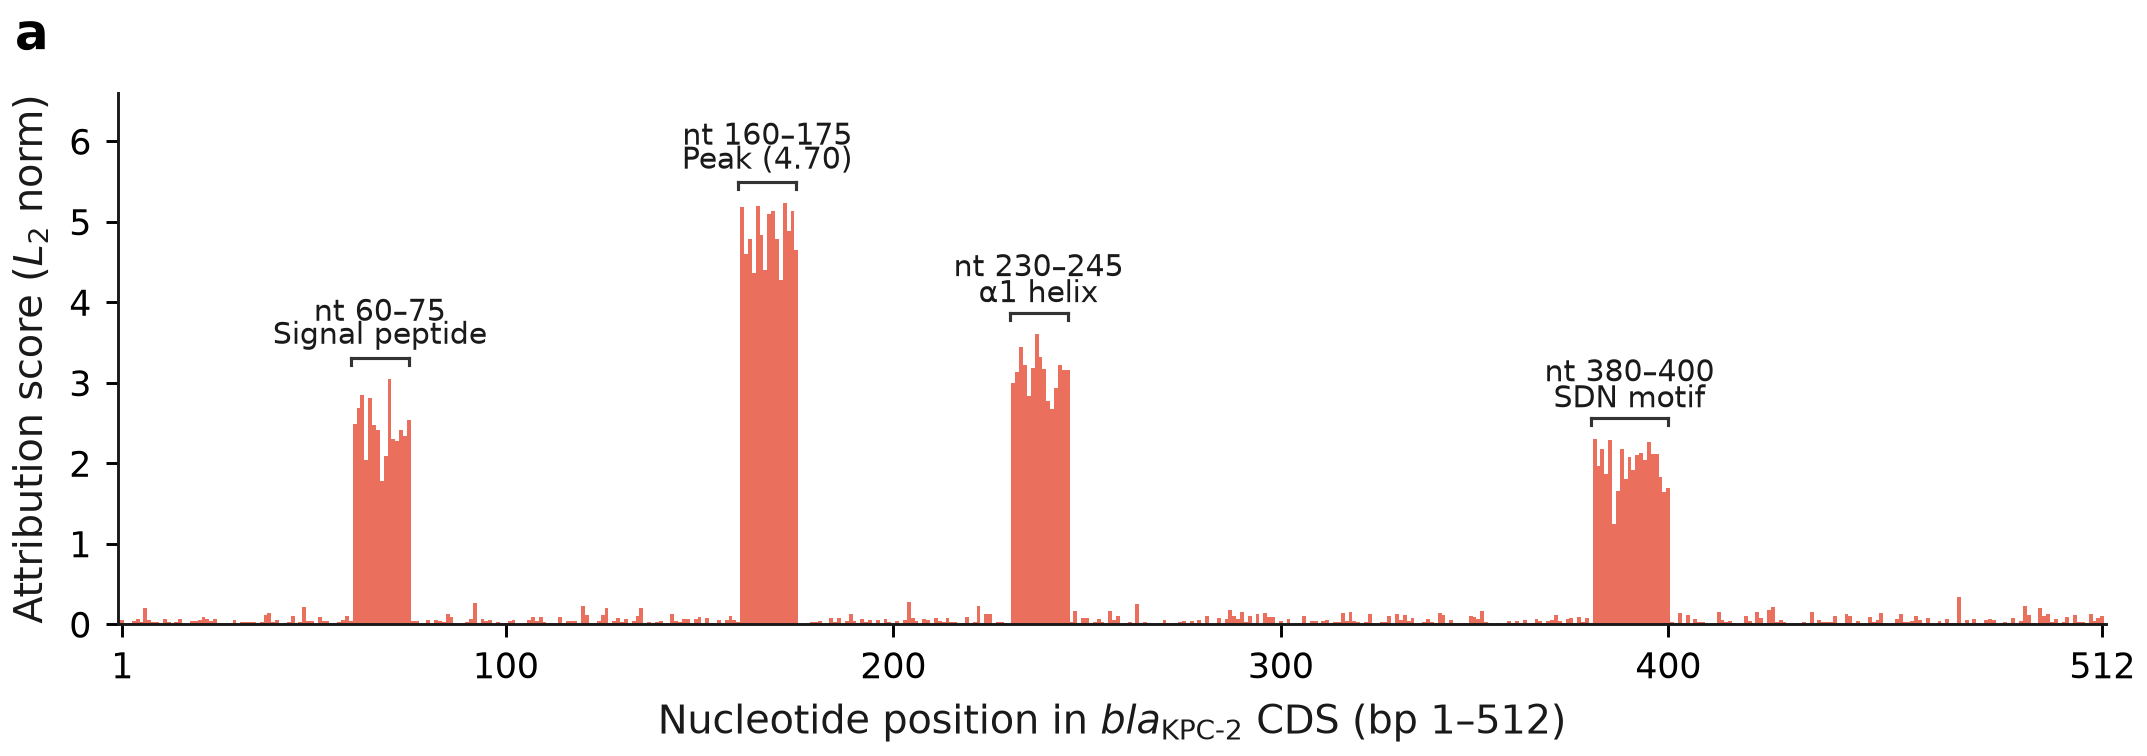
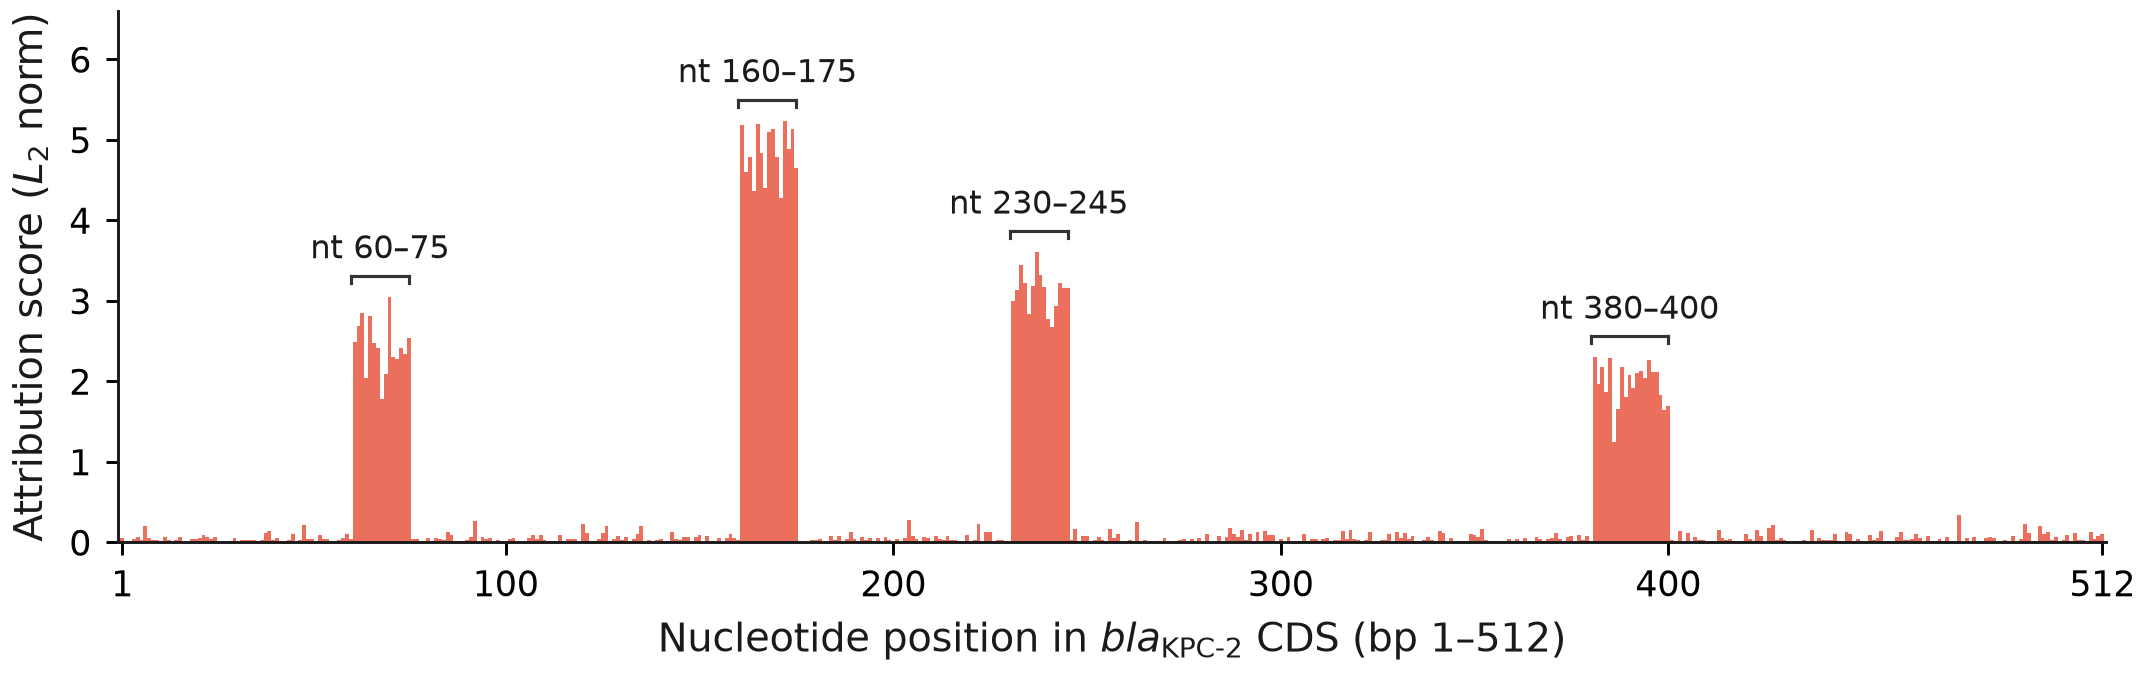
style(fig4): simplify annotation labels to nucleotide coordinates and omit panel 'a' label

diff --git a/scripts/new/plot_paper_figure4_ig.py b/scripts/new/plot_paper_figure4_ig.py
@@ -42,10 +42,10 @@ def make_figure():
     real_npy = next((p for p in real_npy_candidates if p.exists()), None)
 
     hotspots = [
-        (60,  75,  2.5, "nt 60–75\nSignal peptide"),
-        (160, 175, 4.7, "nt 160–175\nPeak (4.70)"),
-        (230, 245, 3.1, "nt 230–245\nα1 helix"),
-        (380, 400, 1.8, "nt 380–400\nSDN motif"),
+        (60,  75,  2.5, "nt 60–75"),
+        (160, 175, 4.7, "nt 160–175"),
+        (230, 245, 3.1, "nt 230–245"),
+        (380, 400, 1.8, "nt 380–400"),
     ]
 
     if real_npy:
@@ -117,11 +117,11 @@ def make_figure():
         color="#1a1a1a", labelpad=4,
     )
 
-    # ── 6. Panel label ────────────────────────────────────────────────
-    ax.text(-0.052, 1.06, "a",
-            transform=ax.transAxes,
-            fontsize=12, fontweight="bold",
-            va="bottom", ha="left", color="#000000")
+    # ── 6. Panel label (omitted for single-panel Figure 4) ────────────
+    # ax.text(-0.052, 1.06, "a",
+    #         transform=ax.transAxes,
+    #         fontsize=12, fontweight="bold",
+    #         va="bottom", ha="left", color="#000000")
 
     # ── 7. Hotspot brackets & labels ─────────────────────────────────
     for start, end, amp, label in hotspots:
@@ -135,8 +135,8 @@ def make_figure():
 
         center_x = (start + end) / 2.0
         ax.text(center_x, y_b + 0.12, label,
-                fontsize=7.2, ha="center", va="bottom",
-                color="#1a1a1a", linespacing=0.85)
+                fontsize=7.8, ha="center", va="bottom",
+                color="#1a1a1a")
 
     # ── 8. Save ───────────────────────────────────────────────────────
     fig.savefig(OUT / "Figure4_updated.png",
